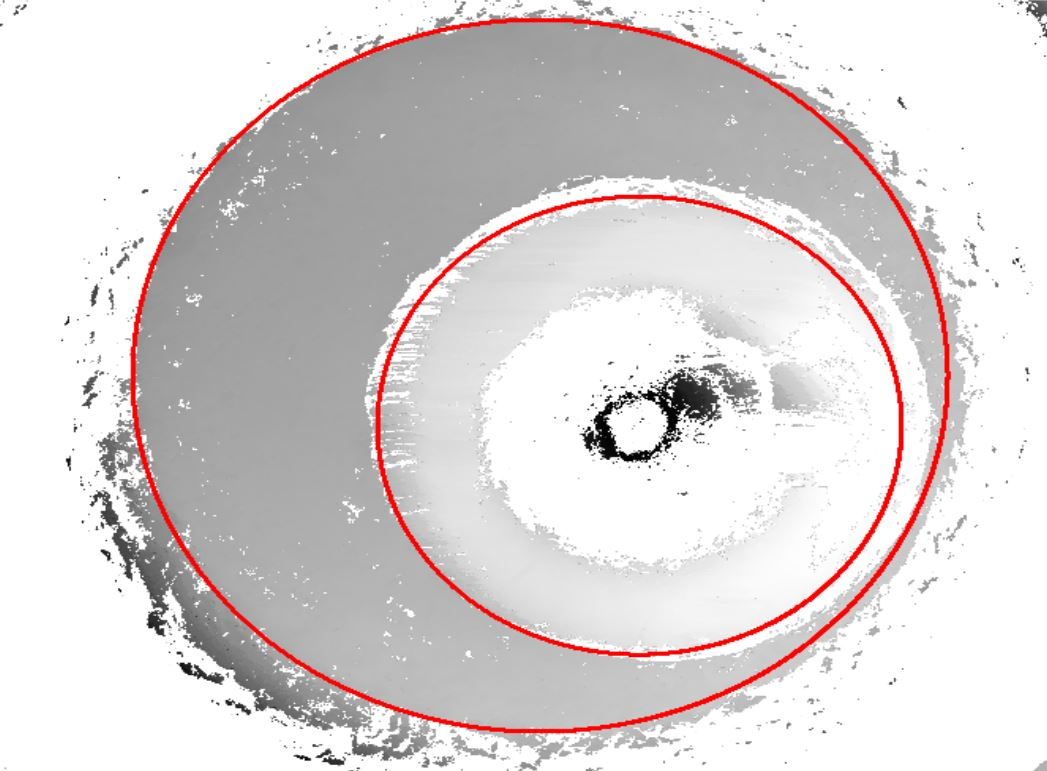
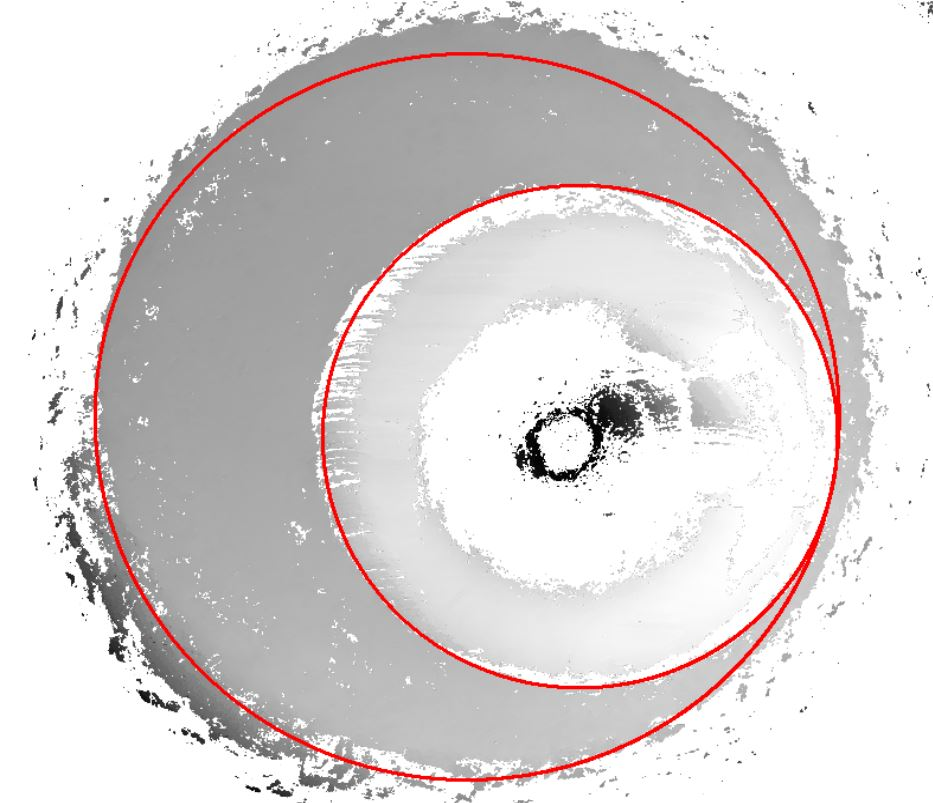
Update slides.

diff --git a/02_weekly-updates/show_and_tell_new_format/Bullet_and_Casings/update-2019-04-08.html b/02_weekly-updates/show_and_tell_new_format/Bullet_and_Casings/update-2019-04-08.html
@@ -180,9 +180,10 @@ class: primary
 
 ---
 class: primary
-## Cartridge Cases: Implementation
+## Cartridge Cases: Hough Transform
 
-&lt;img src = "../../images/joeZ/houghtransformCircles.JPG" width="80%"/&gt;
+&lt;img src = "../../images/joeZ/houghtransformCircles.JPG" border="2" width="49%"/&gt;
+&lt;img src = "../../images/joeZ/filteredBreechfaceScan.JPG" border="2" width="49%" align="right"/&gt;
 
 ---
 class: inverse
